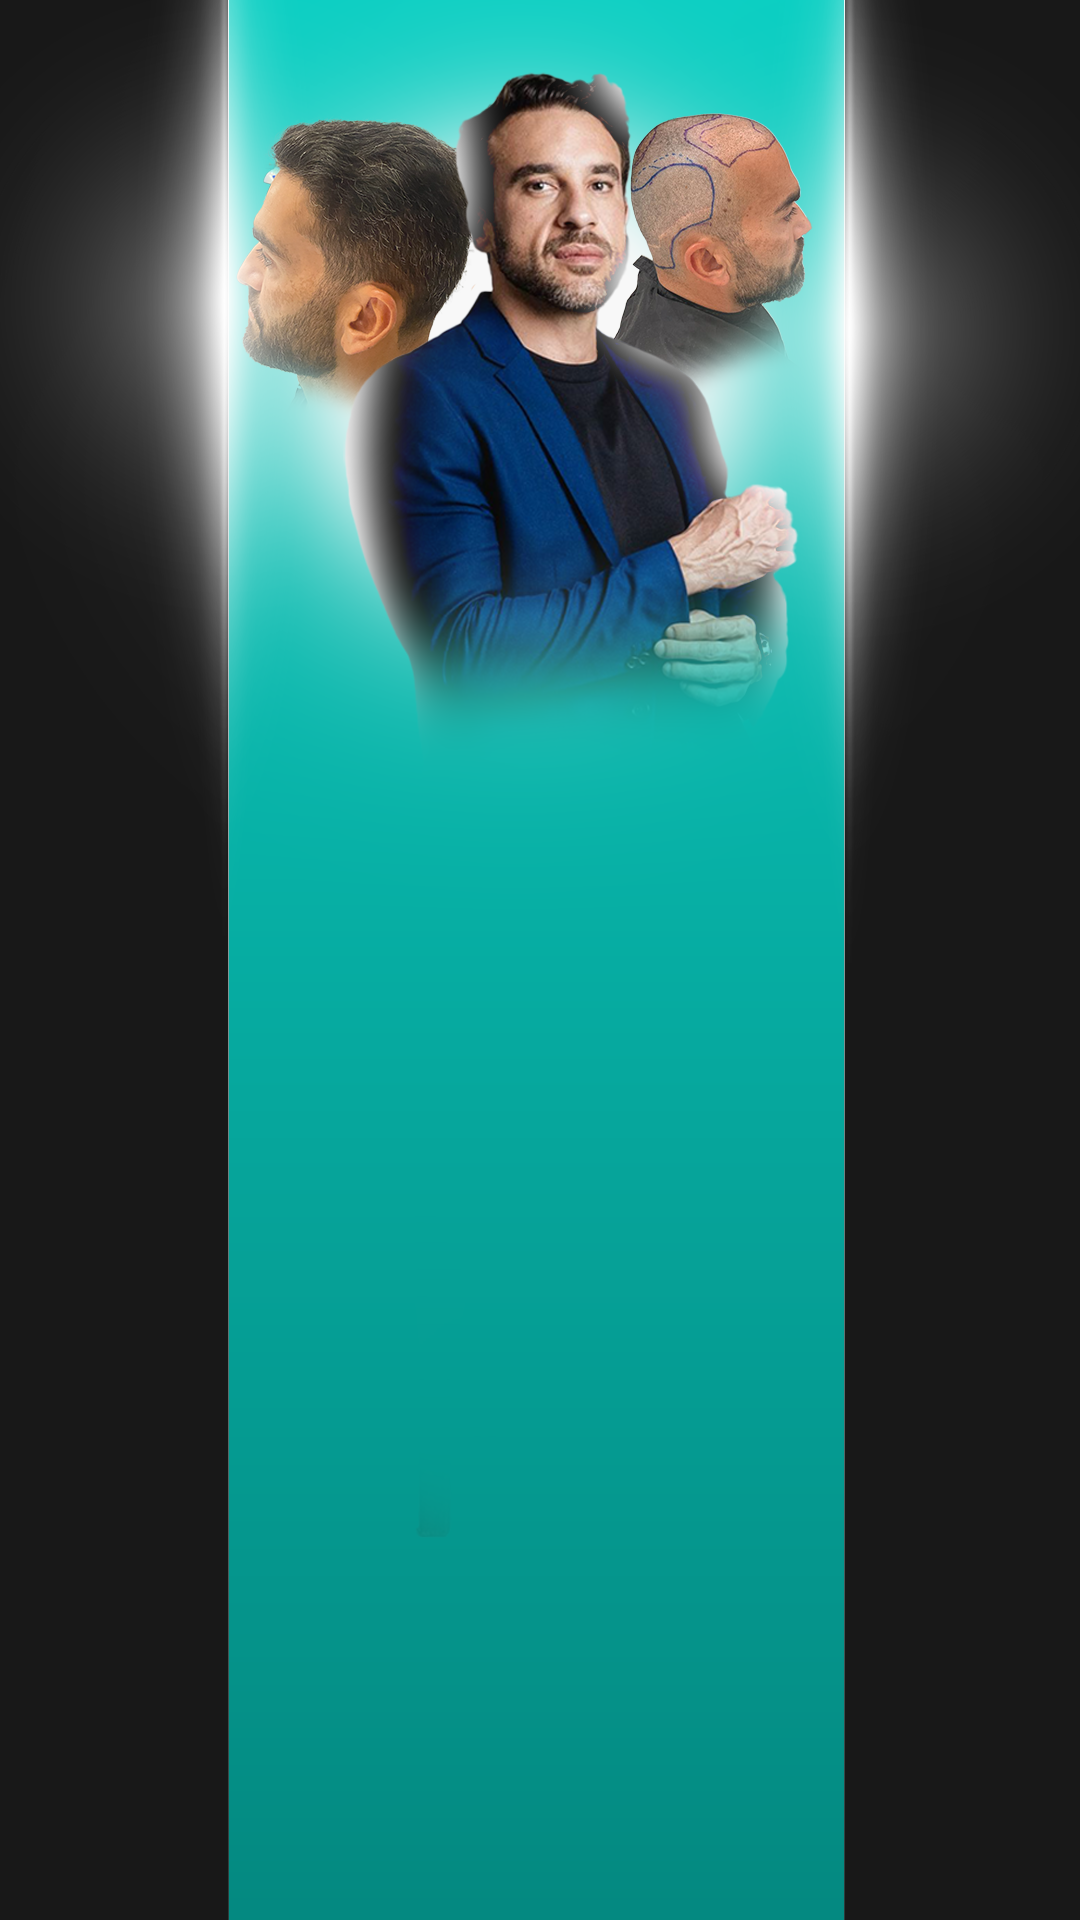
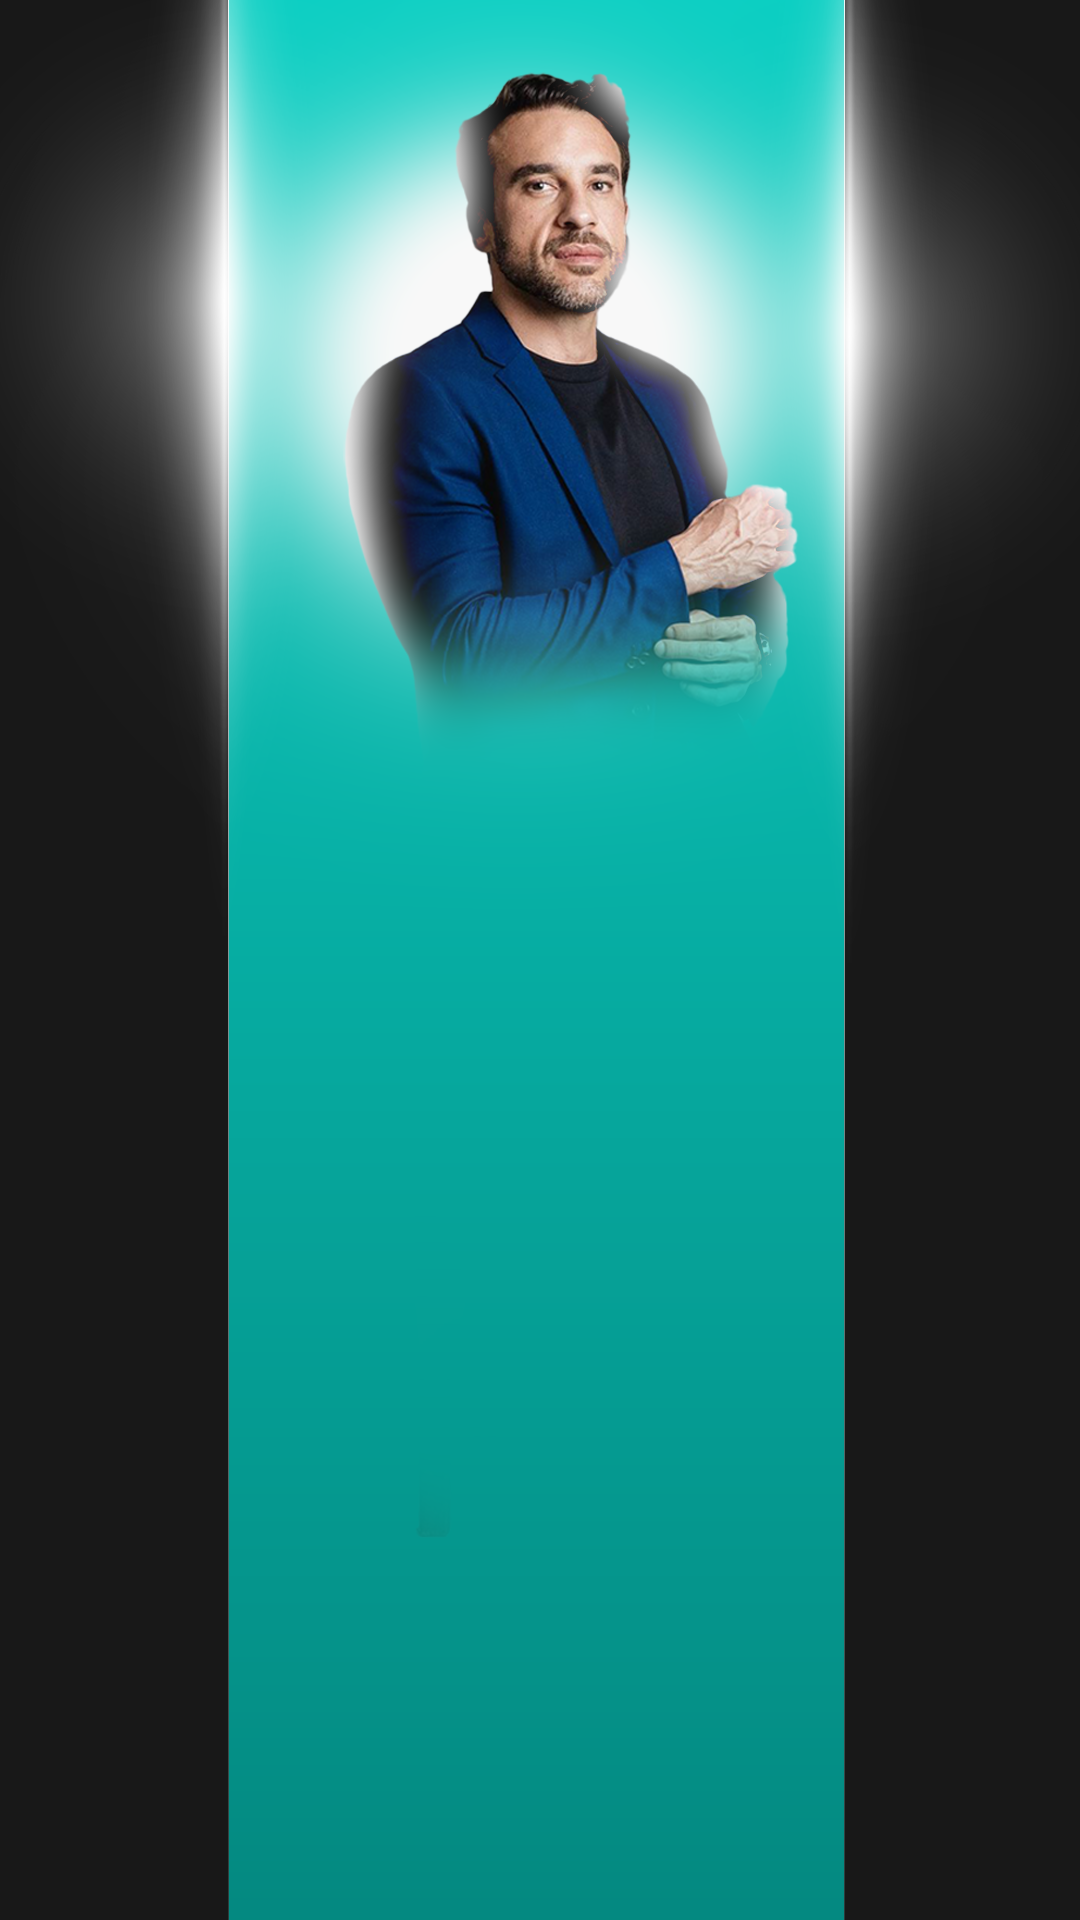
new layout

Changed region(s): [[0.2139, 0.0625, 0.4583, 0.2188], [0.55, 0.0312, 0.7639, 0.2188]]

diff --git a/index.html b/index.html
@@ -208,164 +208,36 @@
             }
 
             .content {
-                bottom: 250px;
+                top: 38vh;
+                bottom: auto;
                 right: auto;
                 left: 0;
                 transform: none;
                 width: 100%;
                 max-width: 100%;
-                padding: 0 30px;
+                padding: 0 20px;
                 text-align: center;
             }
 
             .texto-image {
                 width: 85%;
-                max-width: 100%;
+                max-width: 450px;
                 margin: 0 auto 0;
+                display: block;
             }
 
             .botao-link {
                 display: inline-block;
                 margin: -20px auto 0;
                 position: relative;
-                left: 15px;
                 width: auto;
             }
 
             .botao-image {
                 width: 95%;
-                max-width: 100%;
-            }
-        }
-
-        @media (max-width: 768px) {
-            .content {
-                bottom: 220px;
-                padding: 0 25px;
-            }
-
-            .texto-image {
-                width: 85%;
-            }
-
-            .botao-link {
-                left: 15px;
-            }
-
-            .botao-image {
-                width: 95%;
-            }
-        }
-
-        @media (max-width: 600px) {
-            .content {
-                bottom: 190px;
-                padding: 0 22px;
-            }
-
-            .texto-image {
-                width: 85%;
-            }
-
-            .botao-link {
-                left: 15px;
-            }
-
-            .botao-image {
-                width: 95%;
-            }
-        }
-
-        @media (max-width: 480px) {
-            .content {
-                bottom: 240px;
-                padding: 0 20px;
-            }
-
-            .texto-image {
-                width: 85%;
-            }
-
-            .botao-link {
-                margin: -20px auto 0;
-                left: 15px;
-            }
-
-            .botao-image {
-                width: 95%;
-            }
-        }
-
-        @media (max-width: 430px) {
-            .content {
-                bottom: 260px;
-            }
-
-            .texto-image {
-                width: 85%;
-            }
-
-            .botao-link {
-                left: 15px;
-            }
-
-            .botao-image {
-                width: 95%;
-            }
-        }
-
-        @media (max-width: 390px) {
-            .content {
-                bottom: 190px;
-            }
-
-            .texto-image {
-                width: 85%;
-            }
-
-            .botao-link {
-                left: 15px;
-            }
-
-            .botao-image {
-                width: 95%;
-            }
-        }
-
-        @media (max-width: 375px) {
-            .content {
-                bottom: 150px;
-                padding: 0 15px;
-            }
-
-            .texto-image {
-                width: 85%;
-            }
-
-            .botao-link {
-                left: 15px;
-            }
-
-            .botao-image {
-                width: 95%;
-            }
-        }
-
-        @media (max-width: 360px) {
-            .content {
-                bottom: 130px;
-            }
-
-            .texto-image {
-                width: 85%;
-            }
-
-            .botao-link {
-                left: 15px;
-            }
-
-            .botao-image {
-                width: 95%;
+                max-width: 450px;
+                display: block;
+                margin: 0 auto;
             }
         }
     </style>
